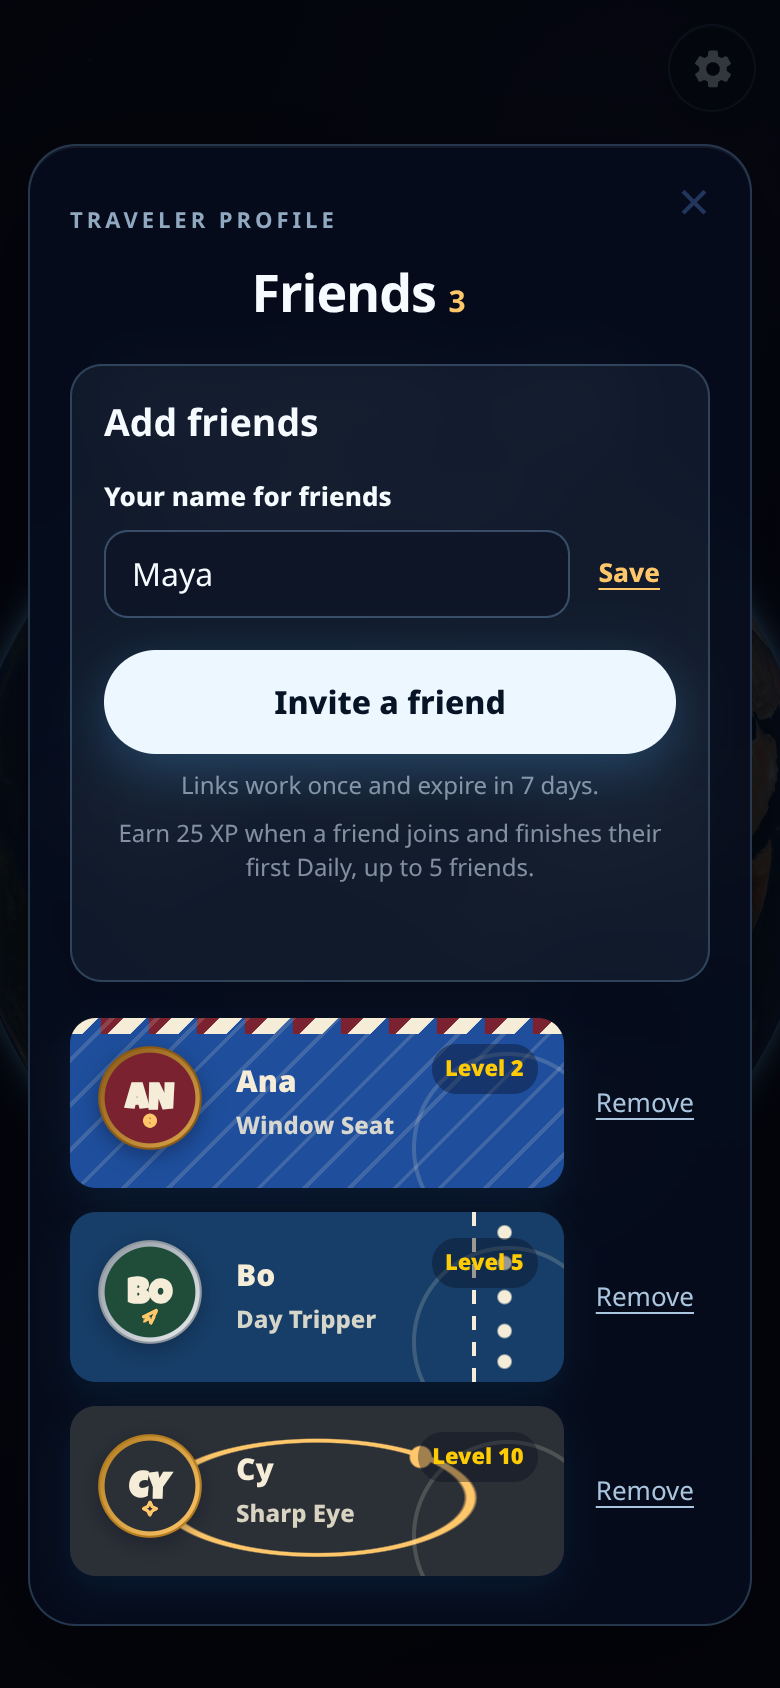
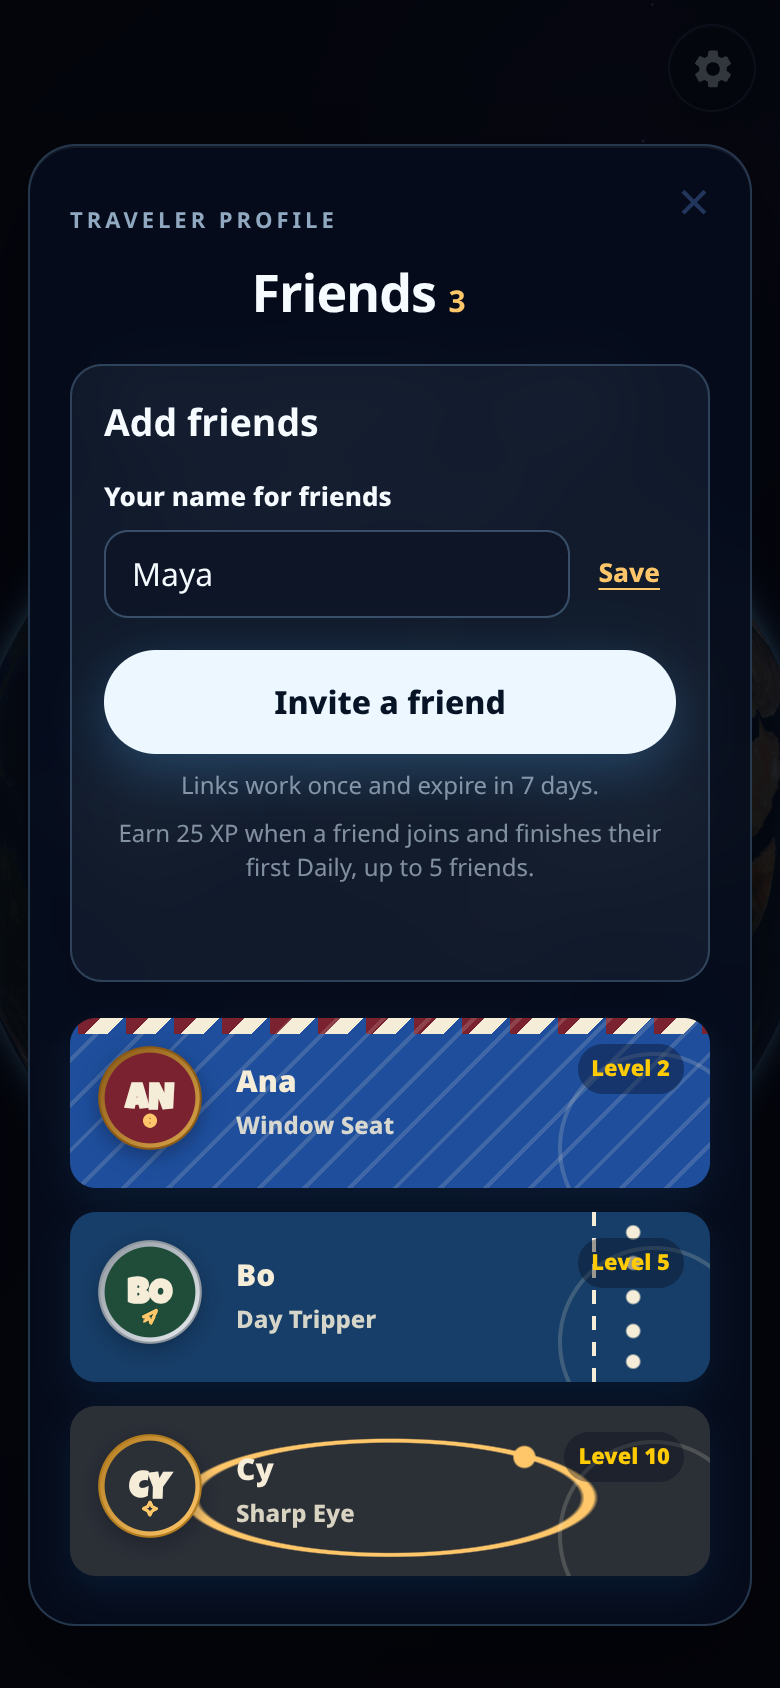
Friends rows full width; remove-a-friend moves into the friend's profile

diff --git a/src/account/sheet.js b/src/account/sheet.js
@@ -362,7 +362,7 @@ function renderFriendsPage() {
   panel.dataset.view = 'friends';
   panel.innerHTML = `<button class="icon-close account-friends-back" aria-label="Back">×</button><section class="friends-page"><header class="friends-page-head"><p class="eyebrow">Traveler profile</p><h2 id="account-title">Friends <span>${friends.length}</span></h2></header>
     <section class="friends-add"><h3>Add friends</h3><form class="account-name-form"><label for="account-friend-name">Your name for friends</label><div class="account-inline-edit"><input id="account-friend-name" name="displayName" maxlength="20" value="${escapeHtml(me.displayName || '')}" placeholder="Add your name" required><button class="text-button" type="submit">Save</button></div></form><button class="primary account-invite" type="button">Invite a friend</button><div class="account-invite-link" hidden><input class="account-invite-link-input" type="text" readonly aria-label="Friend invite link"><div class="account-invite-link-actions"><button class="account-invite-copy" type="button">Copy</button><button class="account-invite-share" type="button" hidden>Share</button></div></div><p class="account-small-print">Links work once and expire in 7 days.</p><p class="account-small-print">Earn 25 XP when a friend joins and finishes their first Daily, up to 5 friends.</p><p class="account-status" aria-live="polite"></p></section>
-    <ul class="friends-page-list">${friends.length ? friends.map((friend) => `<li class="account-friend friend-page-item" data-friend-id="${escapeHtml(friend.friendId)}"><button class="account-friend-profile friend-page-row traveler-card" data-card="${escapeHtml(friend.loadout?.cardId || 'blue-horizon')}" type="button"><span class="friend-page-seal"></span><span class="traveler-identity"><strong>${escapeHtml(friend.displayName)}</strong><span>${escapeHtml(identityName('Titles', friend.loadout?.titleId || 'traveler'))}</span></span><b>Level ${Number(friend.level) || 1}</b></button><button class="text-button account-remove" type="button">Remove</button></li>`).join('') : '<li class="account-friends-empty">No friends yet. Invite someone to compare Daily pins.</li>'}</ul></section>`;
+    <ul class="friends-page-list">${friends.length ? friends.map((friend) => `<li class="account-friend friend-page-item" data-friend-id="${escapeHtml(friend.friendId)}"><button class="account-friend-profile friend-page-row traveler-card" data-card="${escapeHtml(friend.loadout?.cardId || 'blue-horizon')}" type="button"><span class="friend-page-seal"></span><span class="traveler-identity"><strong>${escapeHtml(friend.displayName)}</strong><span>${escapeHtml(identityName('Titles', friend.loadout?.titleId || 'traveler'))}</span></span><b>Level ${Number(friend.level) || 1}</b></button></li>`).join('') : '<li class="account-friends-empty">No friends yet. Invite someone to compare Daily pins.</li>'}</ul></section>`;
   mountFriendSeals();
   bind(readAccountSession() || {});
 }
@@ -381,7 +381,7 @@ export async function openTravelerProfile(friendId = '') {
     const visible = definitions.filter((item) => mine || earned.has(item.id)).sort((a, b) => (earned.get(b.id)?.earnedAt || 0) - (earned.get(a.id)?.earnedAt || 0));
     panel.dataset.view = 'profile';
     const strip = mine ? `<div class="profile-xp">${renderXpBar(profile)}<p>${profile.totalXp} XP total</p><p class="profile-xp-explainer">Earn XP in the Daily. The closer your guesses, the more you earn.</p><div class="level-strip">${stripWindow(profile.level).map((level) => `<i class="${level < profile.level ? 'complete' : ''}${level === profile.level ? ' current' : ''}${level === 5 ? ' silver' : ''}${level === 10 ? ' gold' : ''}" title="Level ${level}">${level}</i>`).join('')}</div></div>` : '';
-    panel.innerHTML = `<button class="icon-close account-profile-back" aria-label="Back">×</button><section class="traveler-profile ${mine ? 'own' : 'friend'}"><div class="traveler-card" data-card="${escapeHtml(profile.loadout.cardId)}"><div class="traveler-avatar"></div><div class="traveler-identity"><p class="traveler-level">LEVEL ${profile.level}</p><h2>${escapeHtml(profile.displayName)}</h2><p class="traveler-title">${escapeHtml(identityName('Titles', profile.loadout.titleId))}</p></div>${mine ? '<button class="account-customize" type="button">Customize</button>' : ''}</div>${mine ? `<button class="account-open-friends" type="button"><span>Friends</span><span>${friendsState?.friends?.length || 0} ›</span></button>` : ''}${strip}<div class="traveler-stats">${statGrid(profile.stats)}</div><section class="traveler-achievement-preview"><div class="traveler-section-head"><h3>Achievements</h3><span>${earned.size}/${definitions.length}</span></div><ul class="traveler-achievements">${visible.slice(0, mine ? 3 : definitions.length).map((item) => { const achievement = earned.get(item.id); return `<li class="${achievement ? 'earned' : 'locked'}"><i aria-hidden="true"></i><div><strong>${escapeHtml(item.name)}</strong><span>${achievement ? `Earned ${dateLabel(achievement.earnedAt)}` : escapeHtml(item.condition)}${item.communityPercentage ? ` · ${item.communityPercentage} earned` : ''}</span></div></li>`; }).join('')}</ul>${mine ? '<div class="traveler-actions"><button class="text-button account-open-cabinet" type="button">View cabinet</button></div>' : ''}</section></section>`;
+    panel.innerHTML = `<button class="icon-close account-profile-back" aria-label="Back">×</button><section class="traveler-profile ${mine ? 'own' : 'friend'}"><div class="traveler-card" data-card="${escapeHtml(profile.loadout.cardId)}"><div class="traveler-avatar"></div><div class="traveler-identity"><p class="traveler-level">LEVEL ${profile.level}</p><h2>${escapeHtml(profile.displayName)}</h2><p class="traveler-title">${escapeHtml(identityName('Titles', profile.loadout.titleId))}</p></div>${mine ? '<button class="account-customize" type="button">Customize</button>' : ''}</div>${mine ? `<button class="account-open-friends" type="button"><span>Friends</span><span>${friendsState?.friends?.length || 0} ›</span></button>` : ''}${strip}<div class="traveler-stats">${statGrid(profile.stats)}</div><section class="traveler-achievement-preview"><div class="traveler-section-head"><h3>Achievements</h3><span>${earned.size}/${definitions.length}</span></div><ul class="traveler-achievements">${visible.slice(0, mine ? 3 : definitions.length).map((item) => { const achievement = earned.get(item.id); return `<li class="${achievement ? 'earned' : 'locked'}"><i aria-hidden="true"></i><div><strong>${escapeHtml(item.name)}</strong><span>${achievement ? `Earned ${dateLabel(achievement.earnedAt)}` : escapeHtml(item.condition)}${item.communityPercentage ? ` · ${item.communityPercentage} earned` : ''}</span></div></li>`; }).join('')}</ul>${mine ? '<div class="traveler-actions"><button class="text-button account-open-cabinet" type="button">View cabinet</button></div>' : '<div class="traveler-actions friend-remove-zone"><button class="text-button account-remove-friend" type="button">Remove friend</button></div>'}</section></section>`;
     panel.querySelector('.traveler-avatar').append(renderAvatar(profile.loadout.avatar, 132, false, { name: profile.displayName, level: profile.level }));
     panel.querySelector('.account-profile-back').addEventListener('click', () => {
       if (mine) closeAccountSheet();
@@ -390,6 +390,21 @@ export async function openTravelerProfile(friendId = '') {
     panel.querySelector('.account-open-cabinet')?.addEventListener('click', () => renderCabinet(profile));
     panel.querySelector('.account-customize')?.addEventListener('click', () => renderCustomizer(profile));
     panel.querySelector('.account-open-friends')?.addEventListener('click', renderFriendsPage);
+    panel.querySelector('.account-remove-friend')?.addEventListener('click', (event) => {
+      const zone = event.currentTarget.closest('.friend-remove-zone');
+      zone.innerHTML = `<span class="account-remove-copy">Remove ${escapeHtml(profile.displayName)}? You'll stop seeing each other's pins.</span><span class="account-remove-actions"><button class="text-button account-remove-friend-confirm" type="button">Remove</button><button class="text-button account-remove-friend-cancel" type="button">Cancel</button></span>`;
+      zone.querySelector('.account-remove-friend-cancel').addEventListener('click', () => openTravelerProfile(friendId));
+      zone.querySelector('.account-remove-friend-confirm').addEventListener('click', async () => {
+        try {
+          await friendApi('/v1/friends/remove', { method: 'POST', body: { friendId } });
+          friendsState = await friendApi('/v1/friends');
+          renderFriendsPage();
+          status(`${profile.displayName} removed`);
+        } catch (error) {
+          status(error.message || 'Could not remove this friend', true);
+        }
+      });
+    });
   } catch (error) { status(error.message || 'Could not load profile', true); }
 }
 function renderCabinet(profile) {

diff --git a/src/styles/game.css b/src/styles/game.css
@@ -345,7 +345,8 @@ button { font: inherit; }
 .friends-add .account-inline-edit .text-button { color: var(--gold); }
 .friends-add .account-status { text-align: center; }
 .friends-page-list { display: grid; gap: 12px; margin: 18px 0 0; padding: 0; list-style: none; }
-.friend-page-item { display: flex; gap: 8px; min-height: 0; border: 0; }
+.friend-page-item { display: flex; min-height: 0; border: 0; }
+.friend-remove-zone { align-items: center; gap: 10px; flex-wrap: wrap; }
 .friend-page-row.traveler-card { flex: 1; min-height: 82px; margin: 0; padding: 13px; border: 0; border-radius: 13px; color: #f6edd8; }
 .friend-page-row .friend-page-seal { position: relative; z-index: 1; flex: none; }
 .friend-page-row .traveler-identity { display: grid; gap: 3px; }
